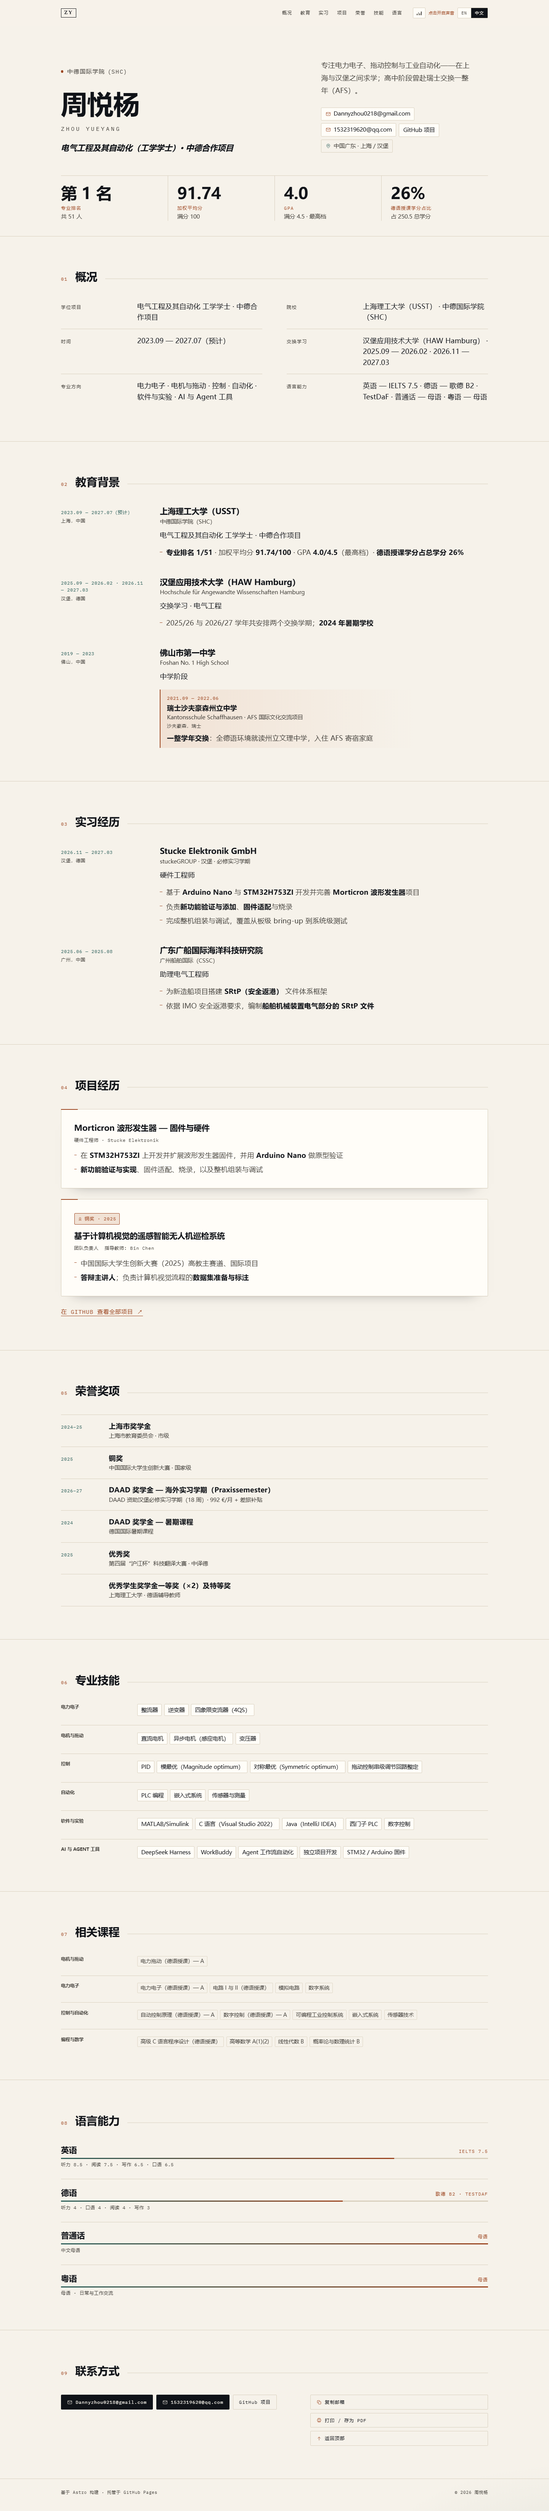
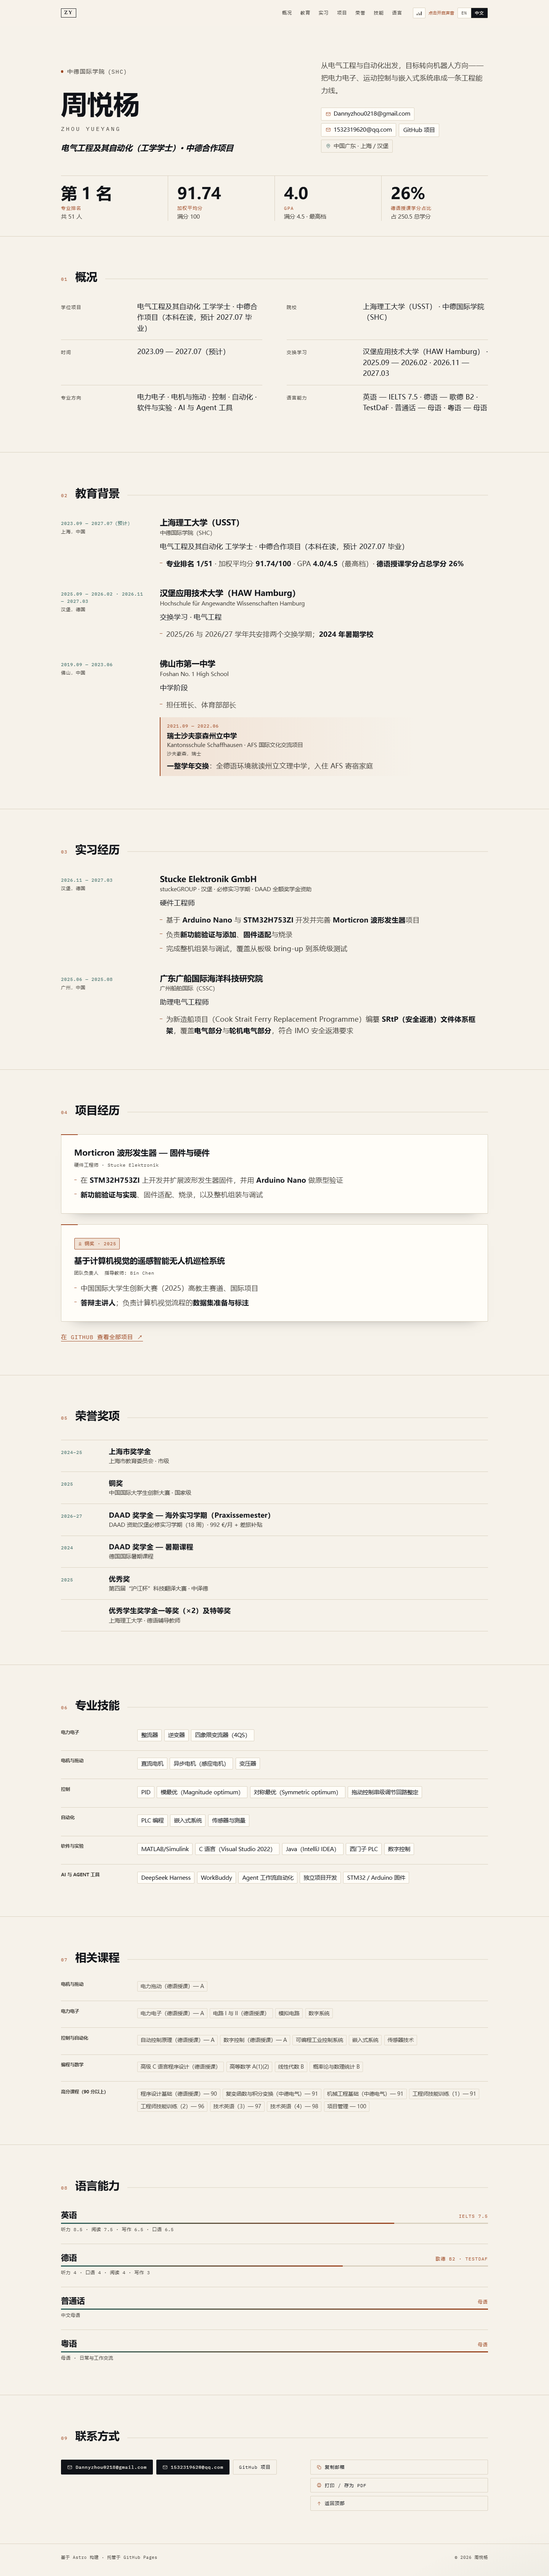
content: robotics-goal tagline, graduation status, high-school dates and roles, DAAD-funded internship note, GSI SRtP wording, 90+ course group

diff --git a/src/data/resume.en.ts b/src/data/resume.en.ts
@@ -53,7 +53,7 @@ export const en: Resume = {
     nameZh: '周悦杨',
     title: 'B.Eng. Electrical Engineering and Automation · Sino-German Joint Program',
     tagline:
-      'Power electronics, drive control and industrial automation — studying between Shanghai and Hamburg, after a full AFS exchange year at a Swiss grammar school.',
+      'From electrical engineering and automation towards robotics — bringing power electronics, motion control and embedded systems together.',
     location: 'Guangdong, China · Shanghai / Hamburg',
     phones: [],
     emails: ['Dannyzhou0218@gmail.com', '1532319620@qq.com'],
@@ -72,7 +72,7 @@ export const en: Resume = {
       org: 'University of Shanghai for Science and Technology',
       orgSub: 'Shanghai-Hamburg College (SHC)',
       place: 'Shanghai, China',
-      degree: 'B.Eng. Electrical Engineering and Automation — Sino-German Joint Program',
+      degree: 'B.Eng. Electrical Engineering and Automation — Sino-German Joint Program (in progress; expected graduation Jul 2027)',
       period: 'Sep 2023 — Jul 2027 (expected)',
       bullets: [
         '**Ranked 1st of 51** · weighted average **91.74/100** · GPA **4.0/4.5** (top band) · **26% of credits taught in German**',
@@ -93,8 +93,8 @@ export const en: Resume = {
       orgSub: 'Foshan, Guangdong',
       place: 'Foshan, China',
       degree: 'Secondary education',
-      period: '2019 — 2023',
-      bullets: [],
+      period: 'Sep 2019 — Jun 2023',
+      bullets: ['Class monitor and head of the sports department'],
       subEntries: [
         {
           period: 'Sep 2021 — Jun 2022',
@@ -109,7 +109,7 @@ export const en: Resume = {
   experience: [
     {
       org: 'Stucke Elektronik GmbH',
-      orgSub: 'stuckeGROUP · Hamburg · Praxissemester',
+      orgSub: 'stuckeGROUP · Hamburg · Praxissemester · DAAD full scholarship',
       place: 'Hamburg, Germany',
       role: 'Hardware Engineer',
       period: 'Nov 2026 — Mar 2027',
@@ -126,8 +126,7 @@ export const en: Resume = {
       role: 'Assistant Electrical Engineer',
       period: 'Jun 2025 — Aug 2025',
       bullets: [
-        'Prepared the **SRtP (Safe Return to Port)** documentation framework for the newbuilding project',
-        "Prepared the **SRtP documentation for the electrical part of the ship's machinery installation**, in line with IMO safe-return-to-port requirements",
+        'Compiled the **SRtP (Safe Return to Port) documentation framework** for the newbuilding project (Cook Strait Ferry Replacement Programme), covering both the **electrical** and **machinery-electrical** parts in line with IMO requirements',
       ],
     },
   ],
@@ -223,6 +222,19 @@ export const en: Resume = {
     {
       group: 'Programming & mathematics',
       items: ['Advanced C Programming (German)', 'Advanced Mathematics A(1)(2)', 'Linear Algebra B', 'Probability & Statistics B'],
+    },
+    {
+      group: 'Courses scored 90+',
+      items: [
+        'Programming Fundamentals (German) — 90',
+        'Complex Analysis & Integral Transforms — 91',
+        'Mechanical Engineering Basics — 91',
+        'Engineering Skills Training (1) — 91',
+        'Engineering Skills Training (2) — 96',
+        'Technical English (3) — 97',
+        'Technical English (4) — 98',
+        'Project Management — 100',
+      ],
     },
   ],
   languages: [

diff --git a/src/data/resume.zh.ts b/src/data/resume.zh.ts
@@ -53,7 +53,7 @@ export const zh: Resume = {
     nameZh: '周悦杨',
     title: '电气工程及其自动化（工学学士）· 中德合作项目',
     tagline:
-      '专注电力电子、拖动控制与工业自动化——在上海与汉堡之间求学；高中阶段曾赴瑞士交换一整年（AFS）。',
+      '从电气工程与自动化出发，目标转向机器人方向——把电力电子、运动控制与嵌入式系统串成一条工程能力线。',
     location: '中国广东 · 上海 / 汉堡',
     phones: [],
     emails: ['Dannyzhou0218@gmail.com', '1532319620@qq.com'],
@@ -72,7 +72,7 @@ export const zh: Resume = {
       org: '上海理工大学（USST）',
       orgSub: '中德国际学院（SHC）',
       place: '上海，中国',
-      degree: '电气工程及其自动化 工学学士 · 中德合作项目',
+      degree: '电气工程及其自动化 工学学士 · 中德合作项目（本科在读，预计 2027.07 毕业）',
       period: '2023.09 — 2027.07（预计）',
       bullets: [
         '**专业排名 1/51** · 加权平均分 **91.74/100** · GPA **4.0/4.5**（最高档）· **德语授课学分占总学分 26%**',
@@ -93,8 +93,8 @@ export const zh: Resume = {
       orgSub: 'Foshan No. 1 High School',
       place: '佛山，中国',
       degree: '中学阶段',
-      period: '2019 — 2023',
-      bullets: [],
+      period: '2019.09 — 2023.06',
+      bullets: ['担任班长、体育部部长'],
       subEntries: [
         {
           period: '2021.09 — 2022.06',
@@ -109,7 +109,7 @@ export const zh: Resume = {
   experience: [
     {
       org: 'Stucke Elektronik GmbH',
-      orgSub: 'stuckeGROUP · 汉堡 · 必修实习学期',
+      orgSub: 'stuckeGROUP · 汉堡 · 必修实习学期 · DAAD 全额奖学金资助',
       place: '汉堡，德国',
       role: '硬件工程师',
       period: '2026.11 — 2027.03',
@@ -126,8 +126,7 @@ export const zh: Resume = {
       role: '助理电气工程师',
       period: '2025.06 — 2025.08',
       bullets: [
-        '为新造船项目搭建 **SRtP（安全返港）** 文件体系框架',
-        '依据 IMO 安全返港要求，编制**船舶机械装置电气部分的 SRtP 文件**',
+        '为新造船项目（Cook Strait Ferry Replacement Programme）编纂 **SRtP（安全返港）文件体系框架**，覆盖**电气部分**与**轮机电气部分**，符合 IMO 安全返港要求',
       ],
     },
   ],
@@ -217,6 +216,19 @@ export const zh: Resume = {
     {
       group: '编程与数学',
       items: ['高级 C 语言程序设计（德语授课）', '高等数学 A(1)(2)', '线性代数 B', '概率论与数理统计 B'],
+    },
+    {
+      group: '高分课程（90 分以上）',
+      items: [
+        '程序设计基础（德语授课）— 90',
+        '复变函数与积分变换（中德电气）— 91',
+        '机械工程基础（中德电气）— 91',
+        '工程师技能训练（1）— 91',
+        '工程师技能训练（2）— 96',
+        '技术英语（3）— 97',
+        '技术英语（4）— 98',
+        '项目管理 — 100',
+      ],
     },
   ],
   languages: [
